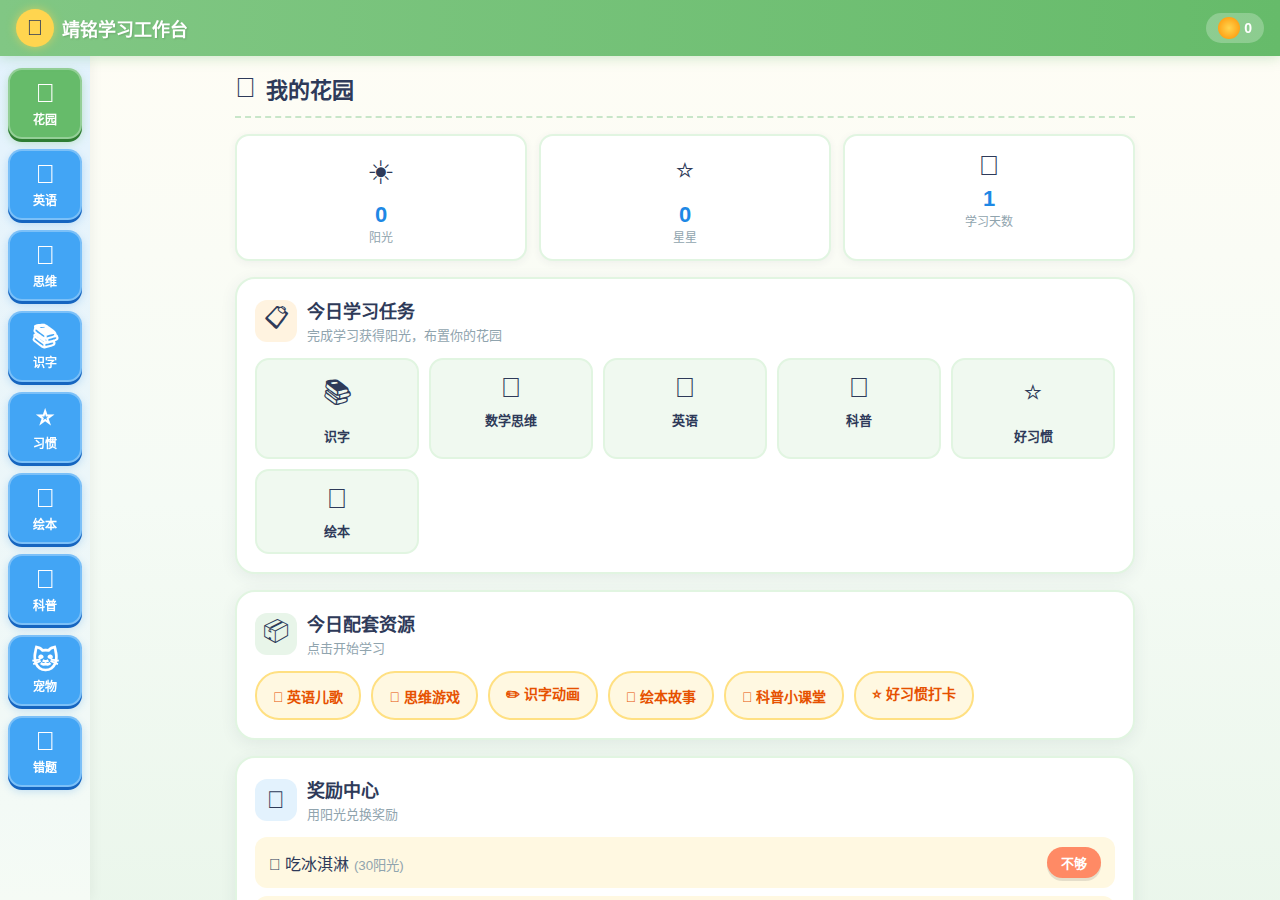
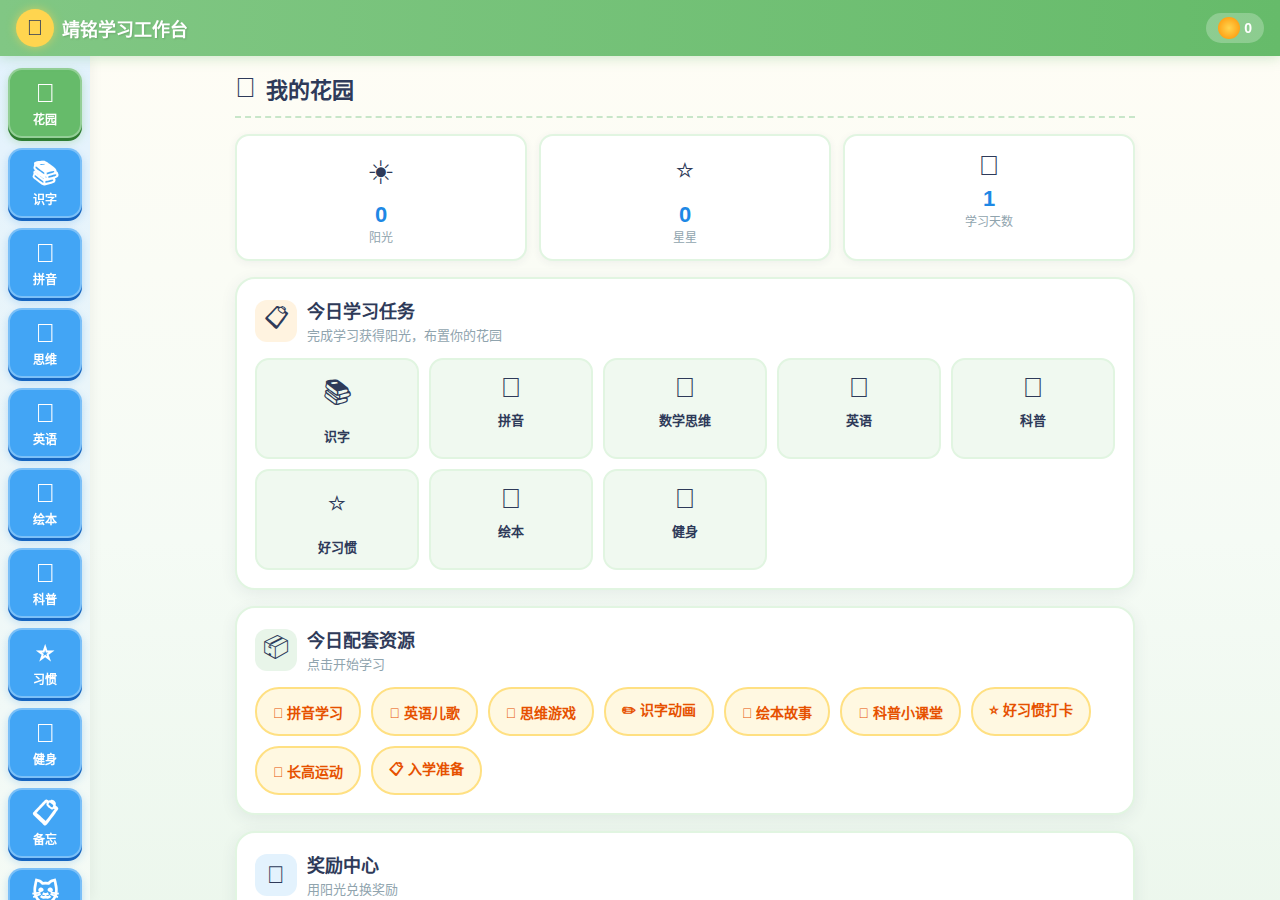
Update daily tasks to schedule mode: pinyin/english/math daily, others rotate Mon/Wed/Fri vs Tue/Thu/Sat

diff --git a/js/v2-app.js b/js/v2-app.js
@@ -91,23 +91,47 @@ const App = {
 
     renderHome() {
         this.updateSun();
-        const tasks = [
-            {id:'hanzi', icon:'📚', name:'识字'},
-            {id:'pinyin', icon:'🔤', name:'拼音'},
-            {id:'math', icon:'🧮', name:'数学思维'},
-            {id:'english', icon:'🗽', name:'英语'},
-            {id:'science', icon:'🔬', name:'科普'},
-            {id:'habit', icon:'⭐', name:'好习惯'},
-            {id:'picturebook', icon:'📖', name:'绘本'},
-            {id:'fitness', icon:'💪', name:'健身'},
+        // 排课表：每天=拼音/英语/数学；一三五=识字/科普/健身；二四六=绘本/习惯/思维
+        const dayOfWeek = new Date().getDay(); // 0=周日 1=周一 ... 6=周六
+        const everyday = [
+            {id:'pinyin', icon:'🔤', name:'拼音', label:'每日'},
+            {id:'english', icon:'🗽', name:'英语', label:'每日'},
+            {id:'math', icon:'🧮', name:'数学', label:'每日'},
         ];
+        const monWedFri = [
+            {id:'hanzi', icon:'📚', name:'识字', label:'一三五'},
+            {id:'science', icon:'🔬', name:'科普', label:'一三五'},
+            {id:'fitness', icon:'💪', name:'健身', label:'一三五'},
+        ];
+        const tueThuSat = [
+            {id:'picturebook', icon:'📖', name:'绘本', label:'二四六'},
+            {id:'habit', icon:'⭐', name:'习惯', label:'二四六'},
+            {id:'thinking', icon:'🧠', name:'思维', label:'二四六'},
+        ];
+        // 周日全部可选，显示一三五组
+        let rotation;
+        if (dayOfWeek === 1 || dayOfWeek === 3 || dayOfWeek === 5 || dayOfWeek === 0) {
+            rotation = monWedFri;
+        } else {
+            rotation = tueThuSat;
+        }
+        const tasks = [...everyday, ...rotation];
+
         document.getElementById('dailyTasks').innerHTML = tasks.map(t => {
             const done = this.state.tasksCompleted[t.id];
-            return `<div class="task-chip ${done ? 'done' : ''}" onclick="App.goto('${t.id === 'math' ? 'thinking' : t.id}')">
+            const gotoId = t.id === 'math' ? 'thinking' : t.id;
+            return `<div class="task-chip ${done ? 'done' : ''}" onclick="App.goto('${gotoId}')">
                 <div class="task-icon">${done ? '✅' : t.icon}</div>
                 <div class="task-name">${t.name}</div>
+                <div class="task-schedule">${t.label}</div>
             </div>`;
         }).join('');
+
+        // 显示今天星期几 + 课表说明
+        const weekNames = ['日','一','二','三','四','五','六'];
+        const todayLabel = `星期${weekNames[dayOfWeek]}`;
+        const scheduleNote = document.getElementById('scheduleNote');
+        if (scheduleNote) scheduleNote.innerHTML = `📅 今天${todayLabel} · 每日必做：拼音/英语/数学 · 今日轮换：${rotation.map(t=>t.name).join('、')}`;
 
         document.getElementById('homeRewards').innerHTML = REWARD_LIST.slice(0,2).map(r => {
             const can = this.state.sun >= r.cost;

diff --git a/index.html b/index.html
@@ -53,6 +53,7 @@
                     <div class="card-icon" style="background:#FFF3E0;">📋</div>
                     <div><div class="card-title">今日学习任务</div><div class="card-subtitle">完成学习获得阳光，布置你的花园</div></div>
                 </div>
+                <div id="scheduleNote" style="margin-bottom:10px;padding:8px 12px;background:linear-gradient(135deg,#E3F2FD,#E8F5E9);border-radius:10px;font-size:13px;color:var(--text-dark);font-weight:500;"></div>
                 <div class="daily-tasks" id="dailyTasks"></div>
             </div>
             <div class="card">

diff --git a/css/v2-style.css b/css/v2-style.css
@@ -346,6 +346,7 @@ body {
 .task-chip.done { background: #E8F5E9; border-color: var(--plant-green); }
 .task-chip .task-icon { font-size: 28px; margin-bottom: 6px; }
 .task-chip .task-name { font-size: 13px; font-weight: bold; color: var(--text-dark); }
+.task-chip .task-schedule { font-size: 10px; color: var(--text-light); margin-top: 2px; }
 
 /* 科普模块 */
 .science-card {
